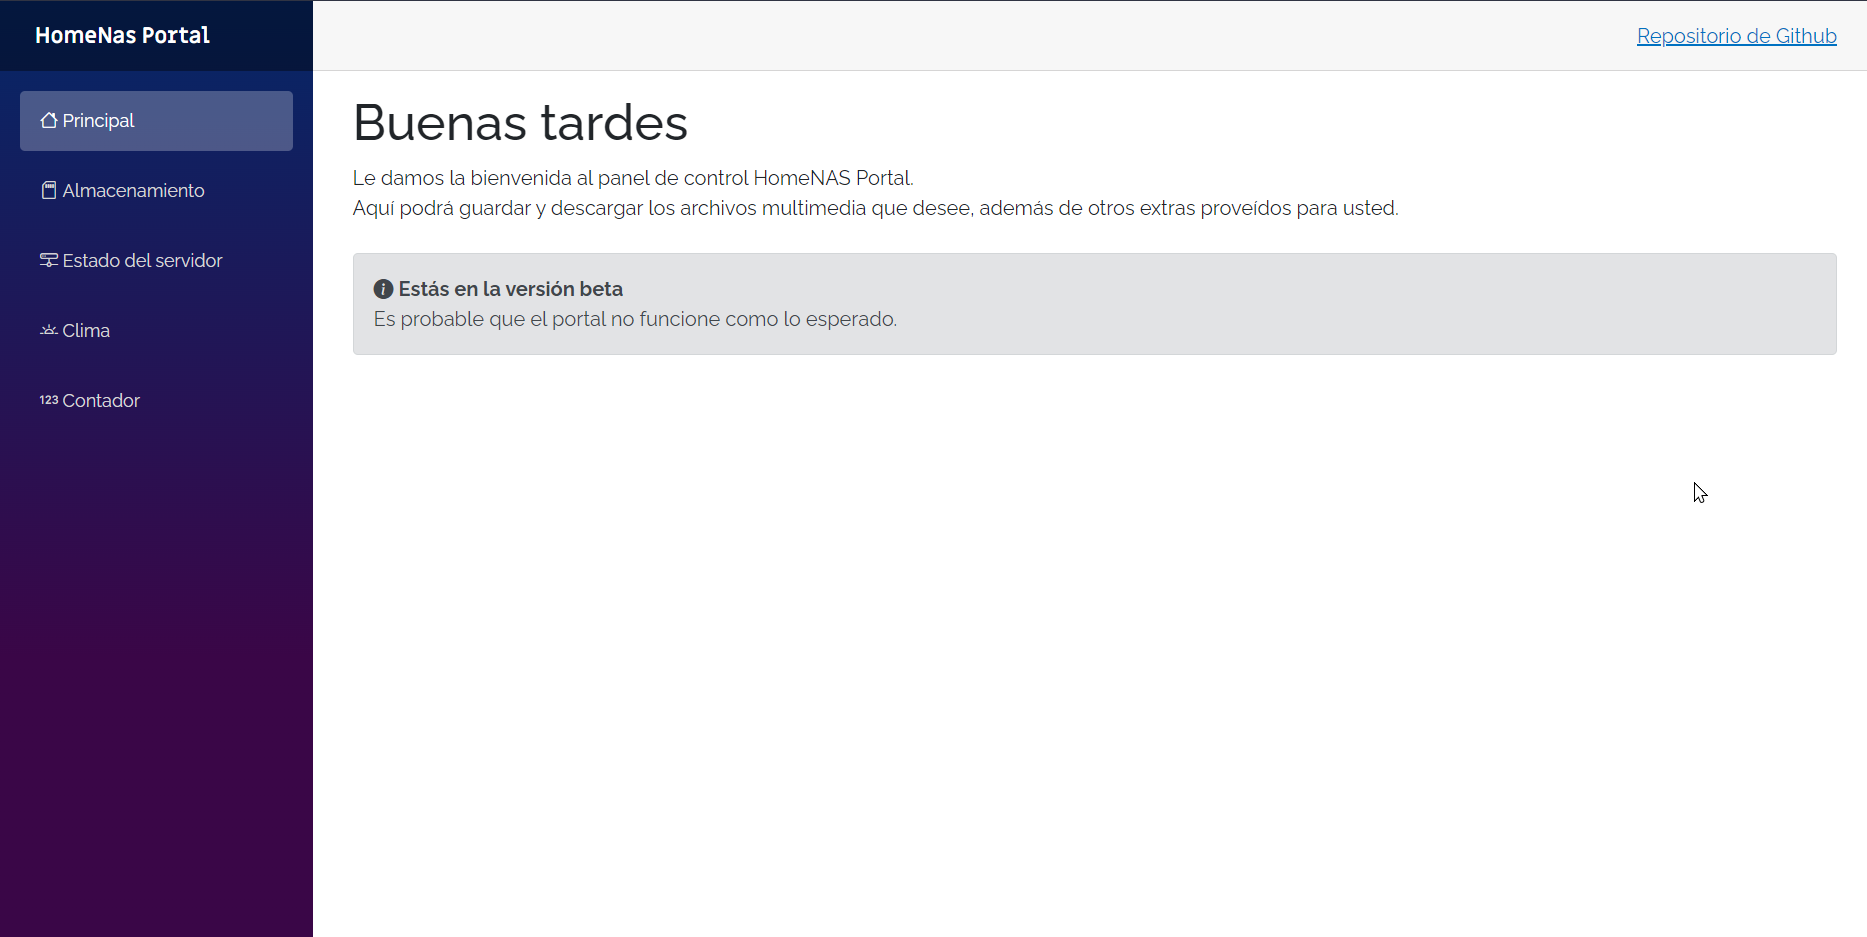
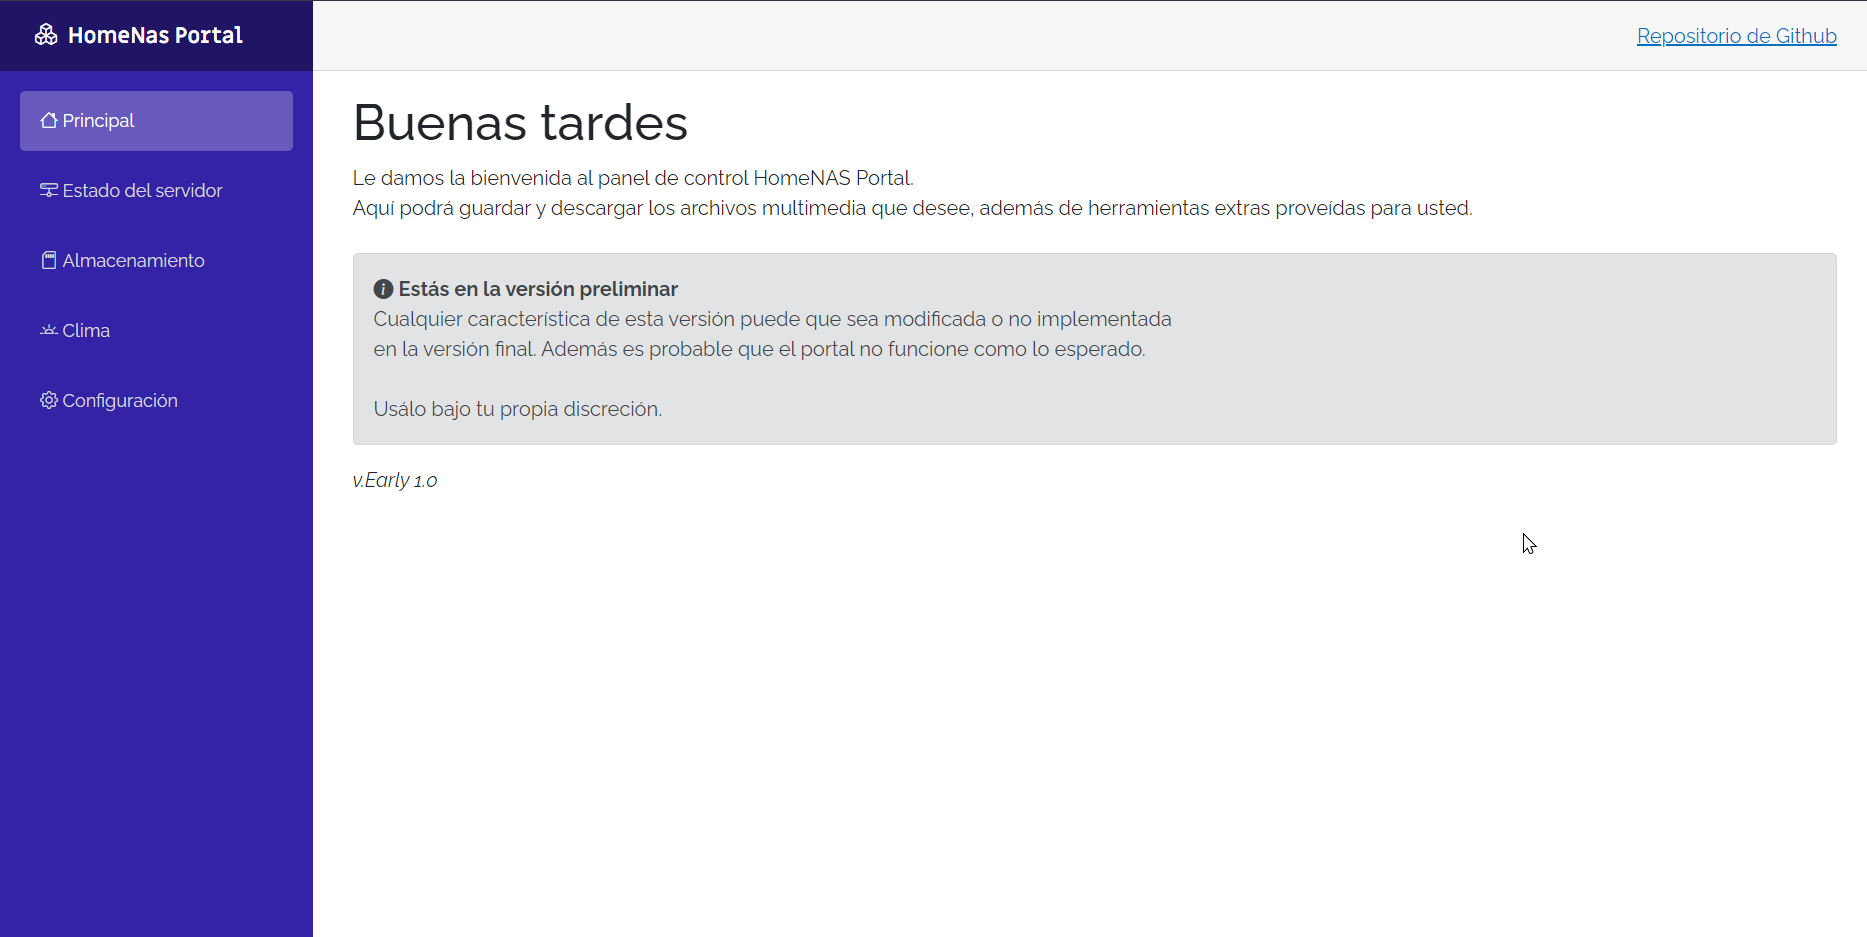
Update README.md

Changed region(s): [[0.0, 0.0, 0.9941, 1.0], [0.5903, 0.2166, 0.7766, 0.2476]]

diff --git a/README.md b/README.md
@@ -1,4 +1,4 @@
 # HomeNas-Portal
 Panel de control web para servidor NAS doméstico.
 
-![El panel de control de HomeNAS. Captura tomada el 13.03.2023 a las 0:39.](dashboard-screenshot.png "HomeNAS Portal Dashboard")
+![El panel de control de HomeNAS. Captura tomada el 13.03.2023 a las 21:58.](dashboard-screenshot.png "HomeNAS Portal Dashboard")
